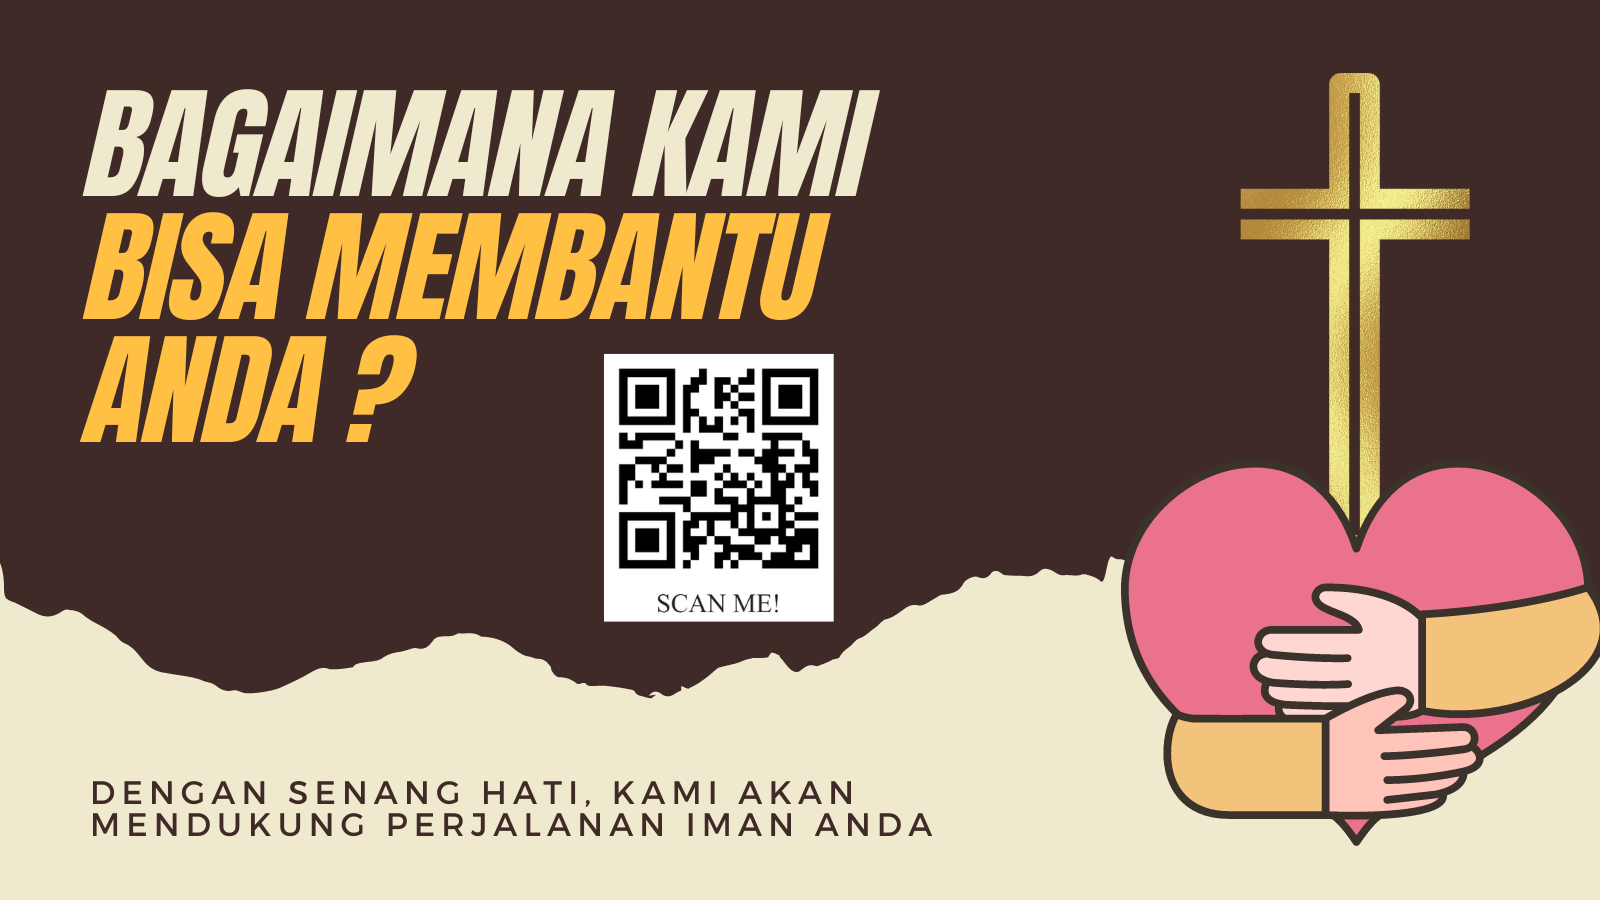
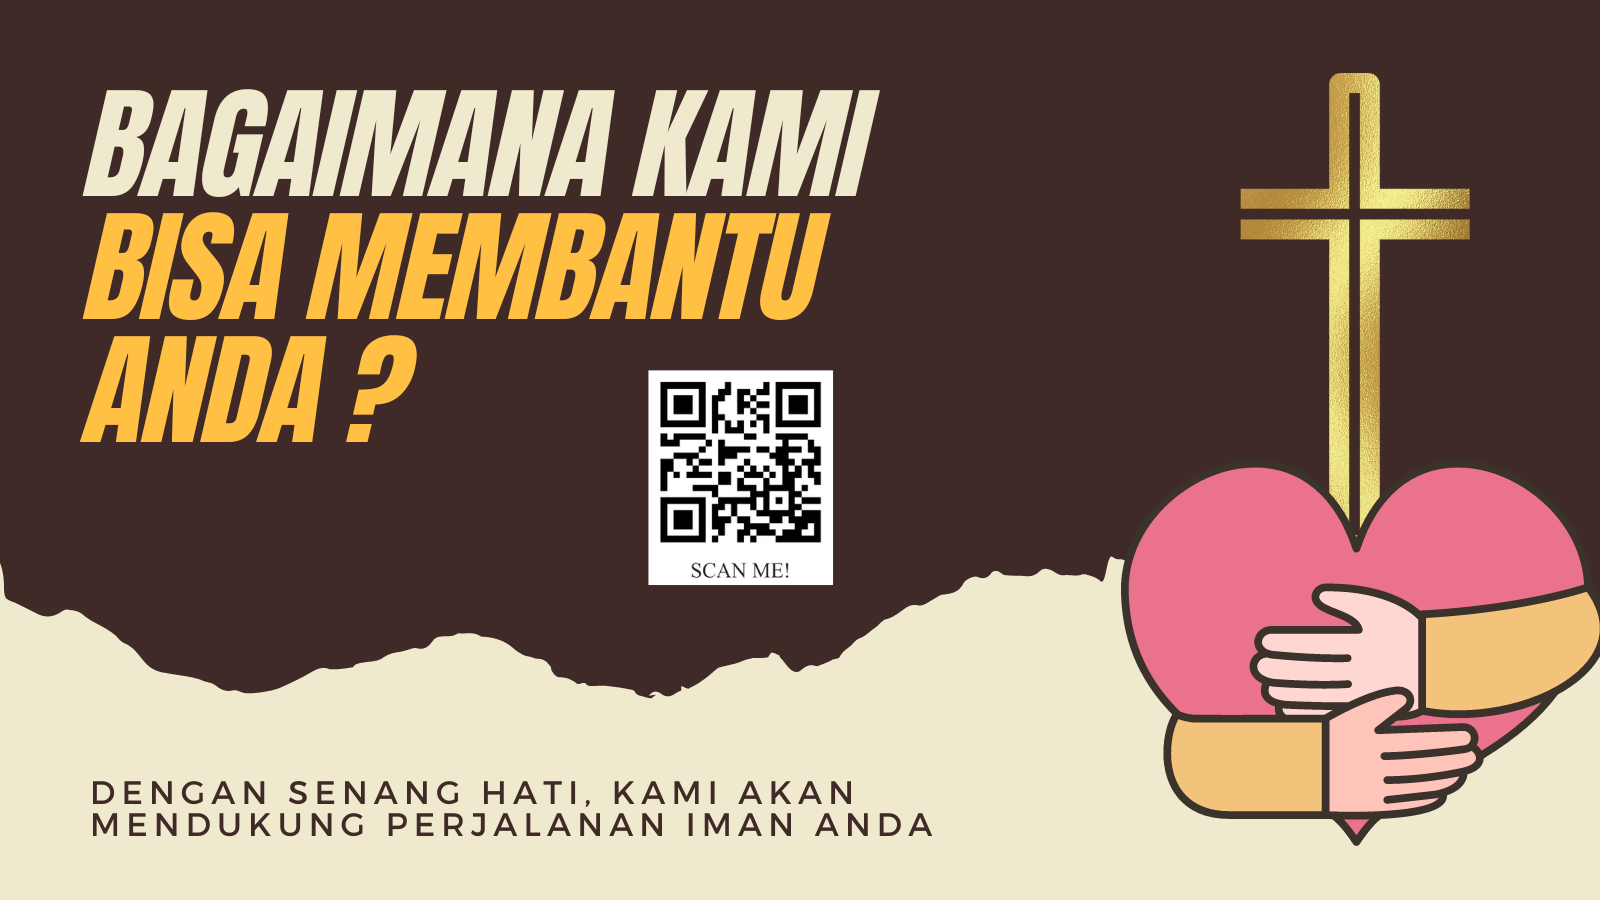
06 AUGUST UPDATE

Changed region(s): [[0.375, 0.3733, 0.5312, 0.7156]]

diff --git a/assets/css/style.css b/assets/css/style.css
@@ -886,12 +886,6 @@ hr.thick-hr {
 .IconWhatsapp img {
   height: 50px;
 }
-.QR {
-  width: 185px;
-  height: auto;
-  margin-top: -770px;
-  margin-right: 150px;
-}
 .card-body {
   text-align: center;
   font-size: 1.3rem;
@@ -907,17 +901,6 @@ hr.thick-hr {
     margin-left: -5px;
     margin-bottom: 0;
   }
-  .card.QR {
-    width: 160px;
-    margin-top: -660px;
-    margin-right: 115px;
-    margin-bottom: 0px;
-  }
-  .card.QR .card-body {
-    font-size: 1.4rem;
-    text-align: center;
-    padding: 0 5px;
-  }
   .contactwa .wa-button {
     border-radius: 5px;
     font-size: 1.8rem;
@@ -931,23 +914,11 @@ hr.thick-hr {
     height: 40px;
   }
 }
-
 /* ukuran info saat layar hp besar*/
 @media (max-width: 768px) {
   .contactwa {
     margin-top: -110px;
     margin-bottom: 0;
-  }
-  .card.QR {
-    width: 50px;
-    margin-top: -207px;
-    margin-right: 40px;
-    margin-bottom: 0px;
-  }
-  .card.QR .card-body {
-    font-size: 0.5rem;
-    text-align: center;
-    padding: 0 5px;
   }
   .contactwa .wa-button {
     border-radius: 5px;
@@ -968,17 +939,6 @@ hr.thick-hr {
     margin-top: -100px;
     margin-bottom: 5px;
   }
-  .card.QR {
-    width: 50px;
-    margin-top: -190px;
-    margin-right: 30px;
-    margin-bottom: 0px;
-  }
-  .card.QR .card-body {
-    font-size: 0.5rem;
-    text-align: center;
-    padding: 0 0;
-  }
   .contactwa .wa-button {
     border-radius: 5px;
     font-size: 0.55rem;
@@ -997,17 +957,6 @@ hr.thick-hr {
   .contactwa {
     margin-top: -100px;
     margin-bottom: 5px;
-  }
-  .card.QR {
-    width: 50px;
-    margin-top: -190px;
-    margin-right: 30px;
-    margin-bottom: 0px;
-  }
-  .card.QR .card-body {
-    font-size: 0.5rem;
-    text-align: center;
-    padding: 0 0;
   }
   .contactwa .wa-button {
     border-radius: 5px;
@@ -1028,24 +977,12 @@ hr.thick-hr {
     margin-top: -100px;
     margin-bottom: 5px;
   }
-  .card.QR {
-    width: 50px;
-    margin-top: -190px;
-    margin-right: 10px;
-    margin-bottom: 0px;
-  }
 }
 /* ukuran info saat layar hp super kecil*/
 @media (max-width: 360px) {
   .contactwa {
     margin-top: -100px;
     margin-bottom: 5px;
-  }
-  .card.QR {
-    width: 50px;
-    margin-top: -190px;
-    margin-right: 0px;
-    margin-bottom: 0px;
   }
 }
 /* ------------------------------------------------ */
